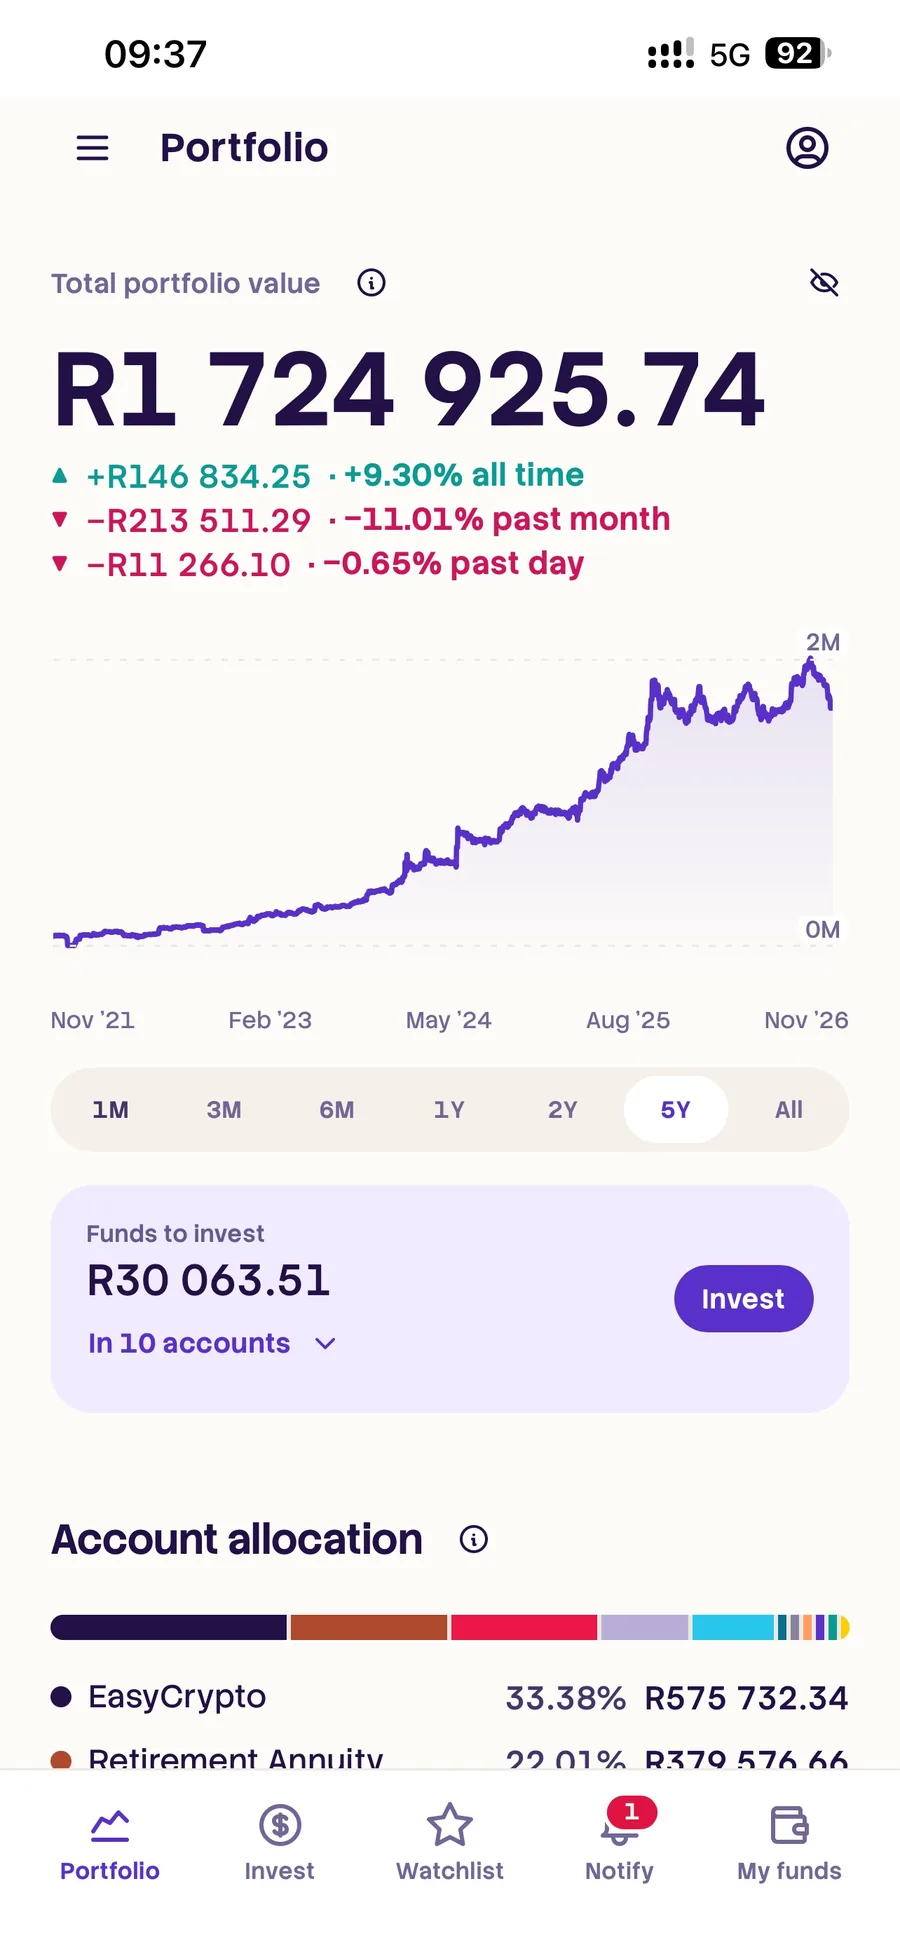
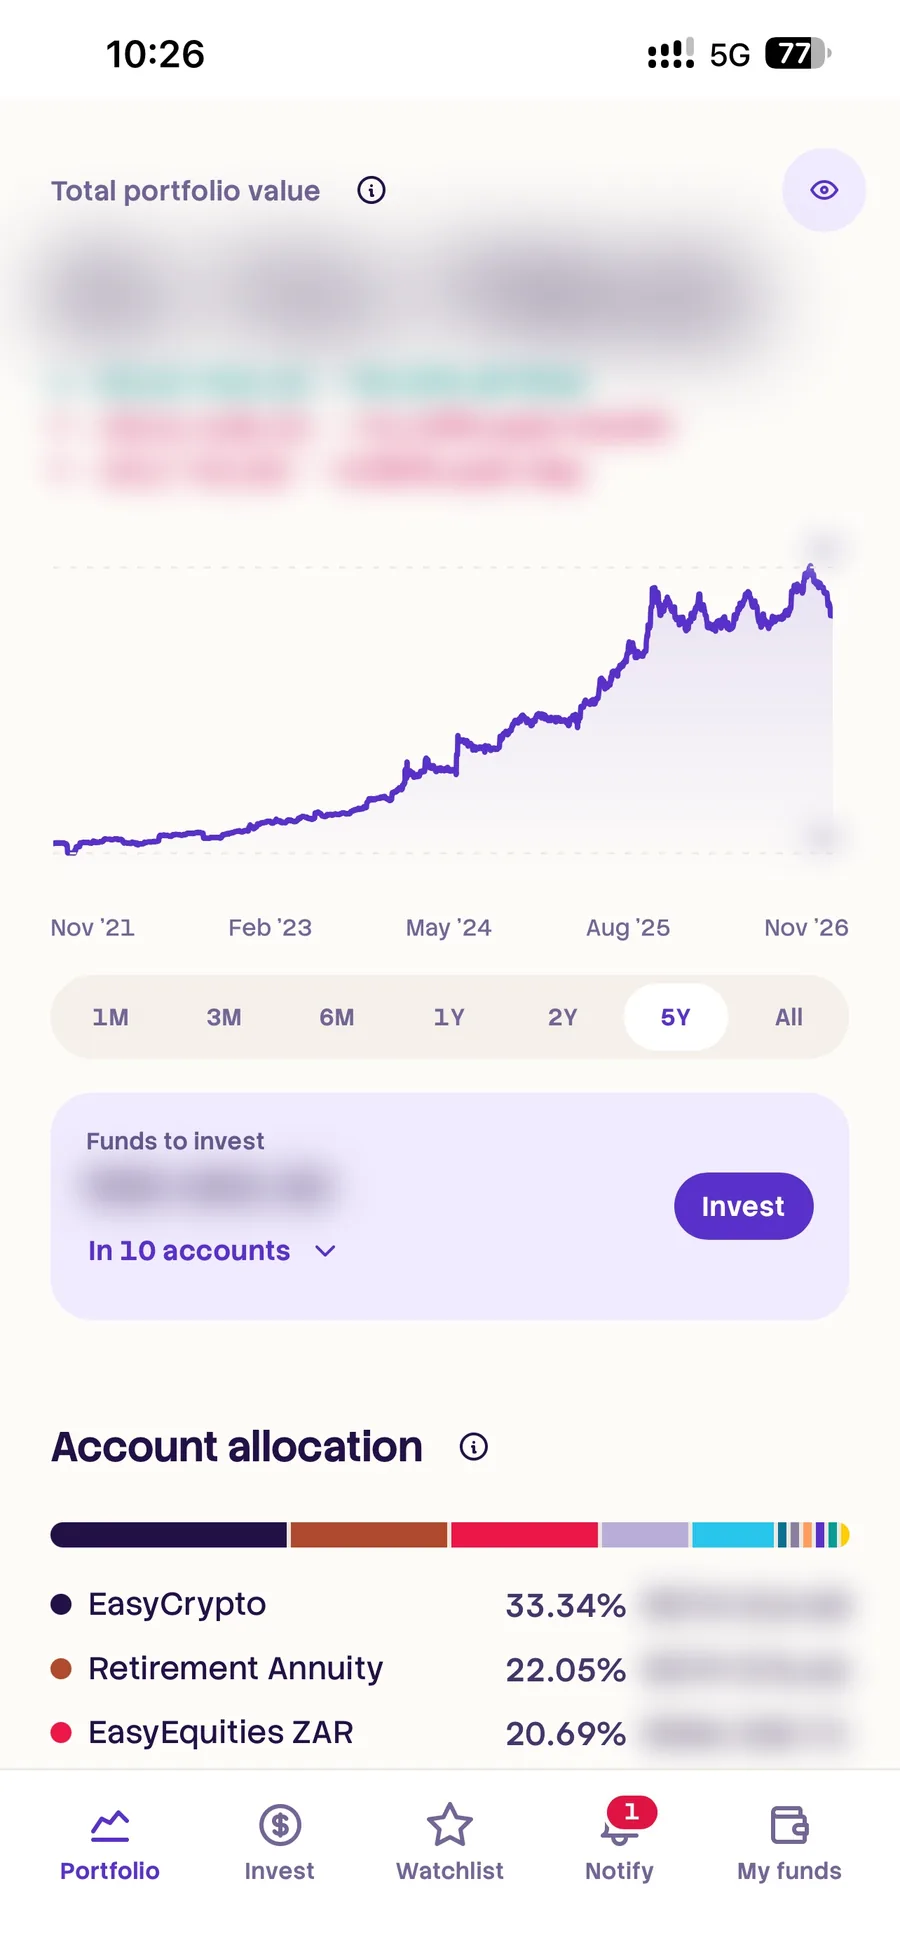
Blur sensitive figures in portfolio screenshot
Replace the Portfolio carousel image with a redacted version so
balances and recent P&L are not visible in the post.

diff --git a/content/posts/still-early.md b/content/posts/still-early.md
@@ -36,8 +36,8 @@ The new EasyEquities UI went live earlier this week, and there’s quite a bit m
           <div class="post-phone__frame">
             <div class="post-phone__screen">
               <img
-                src="/images/posts/easy-ui/portfolio.webp"
-                alt="EasyEquities Portfolio screen with total value, growth chart and account allocation"
+                src="/images/posts/easy-ui/portfolio.webp?v=2"
+                alt="EasyEquities Portfolio screen with growth chart and account allocation (balances hidden)"
                 width="900"
                 height="1947"
                 loading="lazy"
